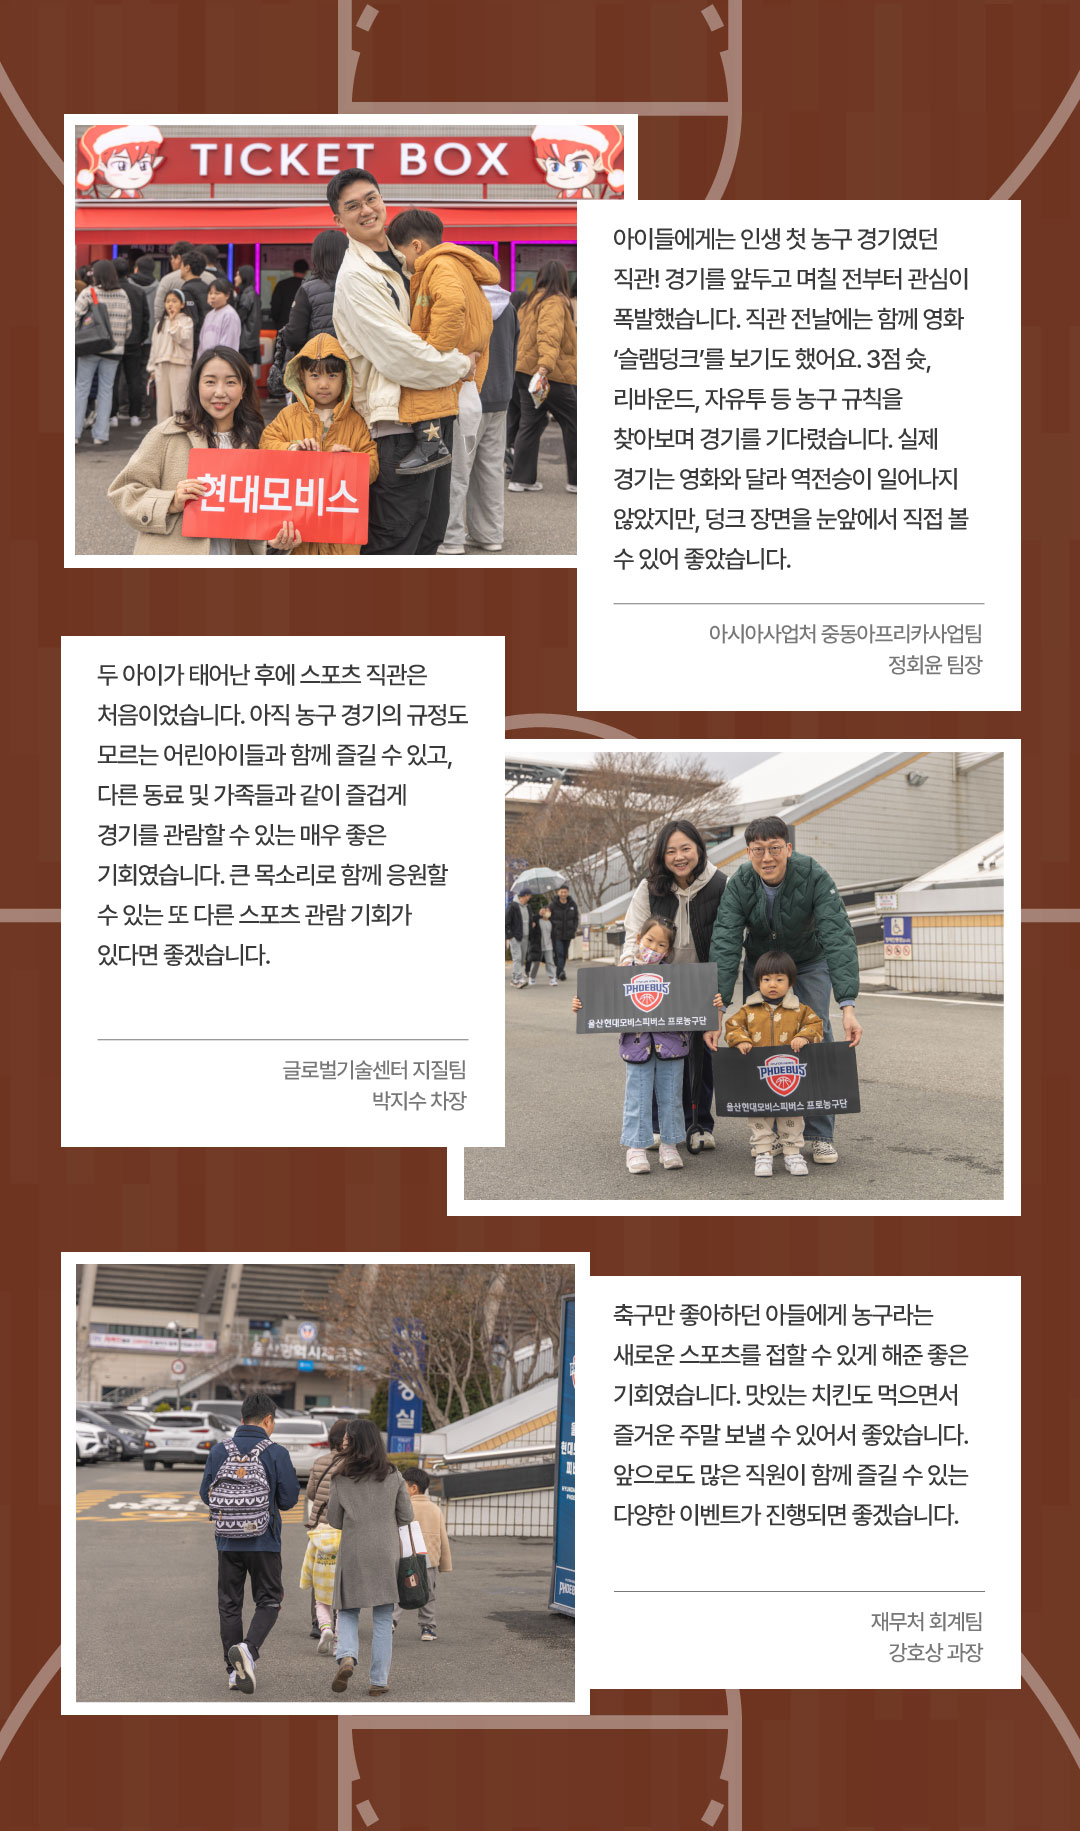
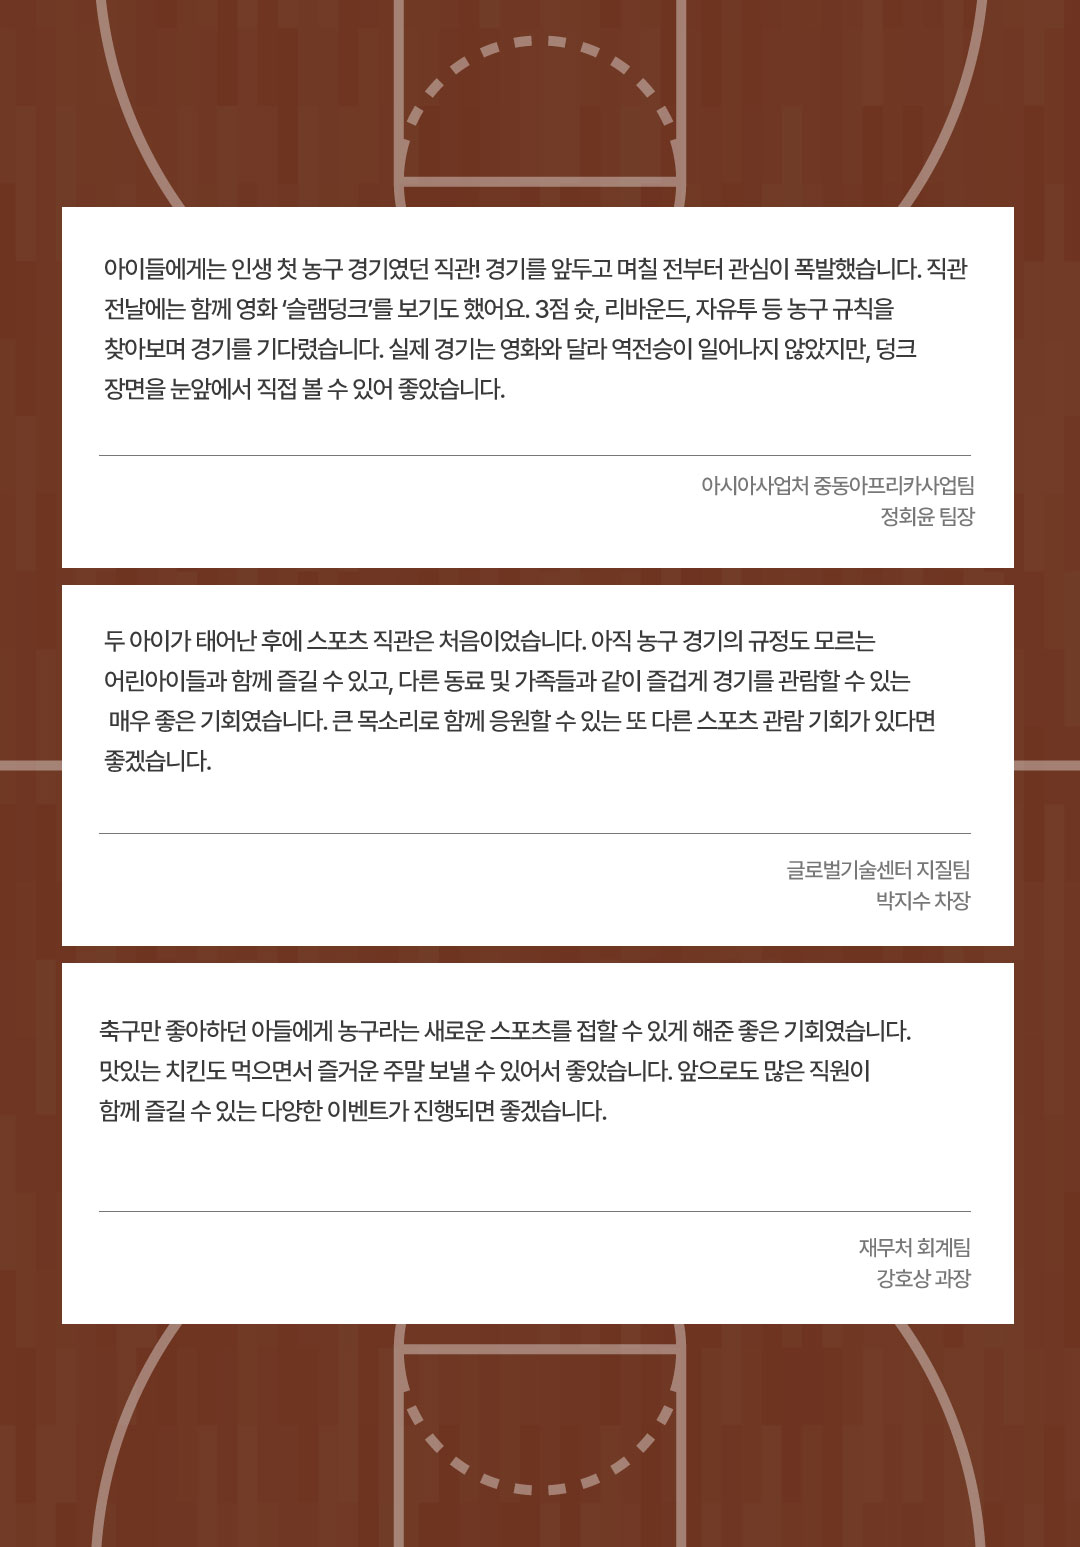
행복한 외출 사진 수정

diff --git a/upload/EBOOK/sabo/206/sub/sub12.html b/upload/EBOOK/sabo/206/sub/sub12.html
@@ -165,6 +165,26 @@
               기뻐하는 참여자들의 모습에 훈훈한 분위기가 가득한 현장이었다.
             </p>
           </div>
+          <div class="half-pic-container">
+            <div class="content_image">
+              <img
+                src="../images/sub/sub12/sub12-1-1.jpg"
+                alt="2025 프로농구 리그 경기 단체 관람 이벤트 현장"
+              />
+            </div>
+            <div class="content_image">
+              <img
+                src="../images/sub/sub12/sub12-1-2.jpg"
+                alt="2025 프로농구 리그 경기 단체 관람 이벤트 현장"
+              />
+            </div>
+            <div class="content_image">
+              <img
+                src="../images/sub/sub12/sub12-1-3.jpg"
+                alt="2025 프로농구 리그 경기 단체 관람 이벤트 현장"
+              />
+            </div>
+          </div>
           <div class="content_image">
             <img
               src="../images/sub/sub12/sub12-1.jpg"
